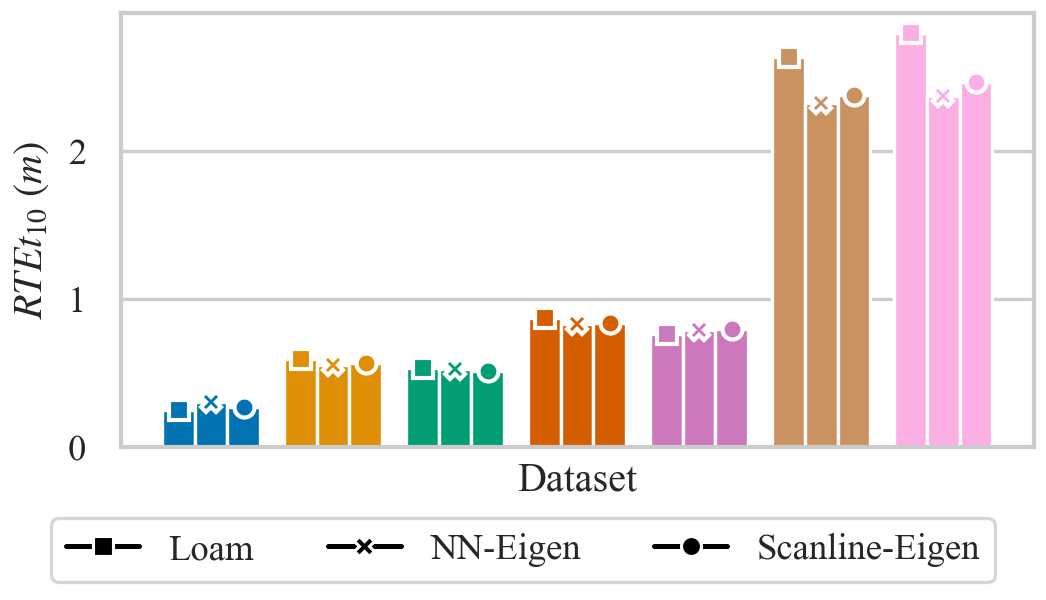
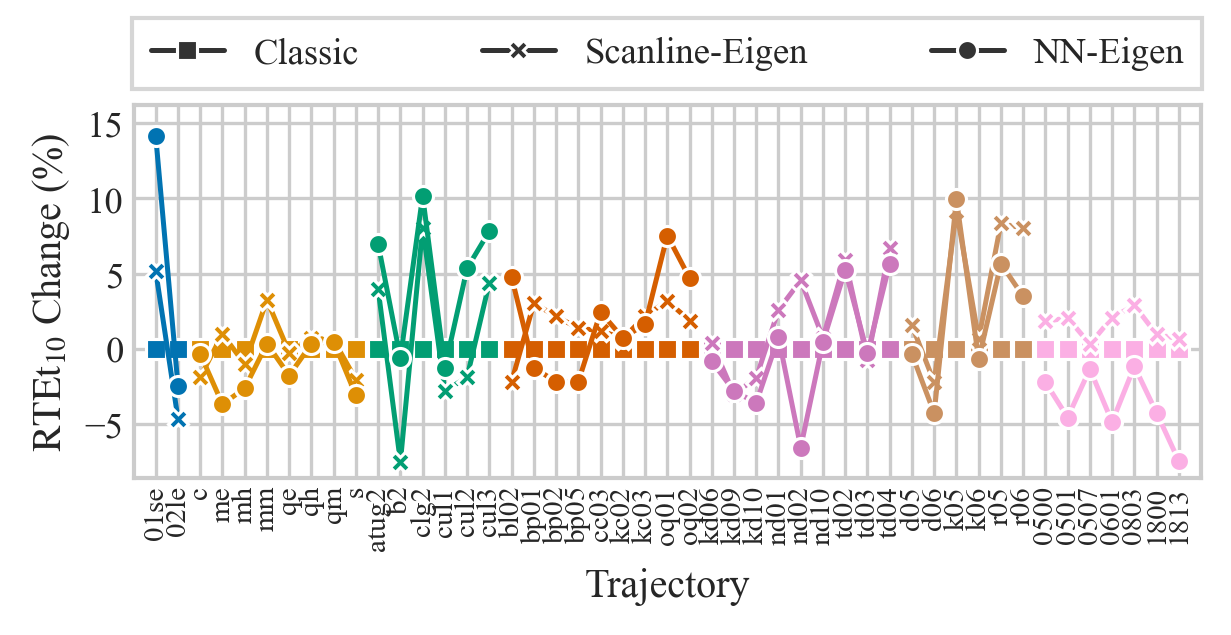
Finish window and curvature

diff --git a/experiments/curvature.py b/experiments/curvature.py
@@ -1,28 +1,30 @@
 from itertools import product
 from pathlib import Path
-from typing import cast
-from matplotlib.patches import Rectangle
-import numpy as np
 import seaborn as sns
 import matplotlib.pyplot as plt
 import polars as pl
 import sys
 
 sys.path.append("src")
-from env import SUBSET_TRAJ, LEN, COL_WIDTH
+from env import ALL_TRAJ, LEN, COL_WIDTH
 from params import Curvature, ExperimentParams, Feature, Initialization
 from wrappers import parser, plt_show, setup_plot
 from run import run_multithreaded
 from stats import compute_cache_stats
 
+"""
+Test for the effect of curvature computations methods
 
-dir = Path("results/25.02.20_curvature_remove_edge_eigen_scanline")
+Changelog
+- 25.02.20: Switched curvature value to 7.0 to make each method get similar number of features. Also switch to ground truth initialization
+
+"""
+
+dir = Path("results/25.02.20_curvature_7.0")
 
 
 def run(num_threads: int):
     # ------------------------- Everything to sweep over ------------------------- #
-    curvature_values = np.linspace(0.00, 2.5, 6)[1:]
-
     curvatures = [
         Curvature.Loam,
         Curvature.Eigen,
@@ -32,107 +34,96 @@ def run(num_threads: int):
     # ------------------------- Compute product of options ------------------------- #
     experiments = [
         ExperimentParams(
-            name=f"{c.name}_{c_val:.3f}",
+            name=c.name,
             dataset=d,
             features=[Feature.Planar],
             curvature=c,
-            curvature_planar_threshold=float(c_val),
-            init=Initialization.ConstantVelocity,
+            curvature_planar_threshold=7.0,
+            init=Initialization.GroundTruth,
         )
-        for c, c_val, d in product(curvatures, curvature_values, SUBSET_TRAJ)
+        for c, d in product(curvatures, ALL_TRAJ)
     ]
 
     run_multithreaded(experiments, dir, num_threads=num_threads, length=LEN)
 
 
-def make_plot_bar(ax, df: pl.DataFrame, name: str, to_plot: str):
-    palette = setup_plot()
-    df = df.filter(
-        pl.col("curvature_planar_threshold").eq(1.0)
-        # & pl.col("Dataset").eq("HeLiPR").not_()
-        # & pl.col("Dataset").eq("Botanic Garden").not_()
+def plot_classic(name: str, force: bool):
+    df = compute_cache_stats(dir, force=force)
+
+    metric = "w100_RTEt"
+    # metric = "planar"
+
+    # Get identity versions
+    df_identity = df.filter(pl.col("Curvature") == "Classic").select(
+        ["dataset", metric]
     )
 
-    sns.barplot(
-        df,
-        ax=ax,
-        x="Dataset",
-        y=to_plot,
-        hue="curvature",
+    # compute percent improvement
+    df = df.with_columns(percent=pl.zeros(df.shape[0]))
+    for dataset in df["dataset"].unique():
+        id_val = df_identity.filter(pl.col("dataset") == dataset)[0, metric]
+        df = df.with_columns(
+            percent=pl.when(pl.col("dataset") == dataset)
+            # THIS IS THE LINE THAT ACTUALLY COMPUTES THINGS
+            .then(100 * (pl.col(metric) - id_val) / id_val)
+            .otherwise(pl.col("percent"))
+        )
+
+    _c = setup_plot()
+    fig, ax = plt.subplots(
+        1,
+        1,
+        figsize=(COL_WIDTH + 0.5, 1.75),
+        layout="constrained",
+        sharey=False,
+        sharex=True,
     )
 
-    markers = ["s", "X", "o"]
-    names = ["Loam", "NN-Eigen", "Scanline-Eigen"]
-
-    tick_labels = ax.get_xticklabels()
-    num_datasets = len(tick_labels)
-    bars = [b for b in ax.get_children() if isinstance(b, Rectangle)]
-    for i, label in enumerate(tick_labels):
-        for j in range(3):
-            # Change bar colors to match the dataset
-            color = palette[label.get_text()]
-            rect = cast(Rectangle, bars[i + j * num_datasets])
-            rect.set_facecolor(color)
-            # Add shape to top of bar
-            x = rect.get_x() + rect.get_width() / 2
-            y = rect.get_height()
-            ax.plot(x, y, marker=markers[j], color=color, markeredgecolor="white")
-
-    # Remove dataset names
-    ax.set_xticklabels([])
-    ax.set_xlabel("Dataset", labelpad=-5)
-
-    # blank line for the legend
-    for m, n in zip(markers, names):
-        sns.lineplot([np.NaN], marker=m, color="black", label=n, ax=ax)
-
-    ax.legend().set_visible(False)
-
-
-def make_plot_line(df: pl.DataFrame, name: str, to_plot: str):
-    fig, ax = plt.subplots(1, 1, figsize=(5, 6), layout="constrained")
-
-    ax.set_title("Loam")
     sns.lineplot(
         df,
         ax=ax,
-        x="curvature_planar_threshold",
-        y=to_plot,
-        hue="dataset",
-        style="curvature",
+        x="Trajectory",
+        y="percent",
+        hue="Dataset",
+        style="Curvature",
         markers=["s", "X", "o"],
-        # style_order=["Identity", "ConstantVelocity", "GroundTruth"],
+        style_order=["Classic", "Scanline-Eigen", "NN-Eigen"],
         dashes=False,
+        legend=True,
     )
-    ax.legend().set_visible(False)
-    fig.legend(ncol=2, loc="outside lower center")
-    plt_show(f"{name}_{to_plot}")
 
-
-def plot(name: str, force: bool):
-    df = compute_cache_stats(dir, force)
-
-    _palette = setup_plot()
-    fig, ax = plt.subplots(1, 1, figsize=(COL_WIDTH, 2), layout="constrained")
-
-    make_plot_bar(ax, df, name, "w100_RTEt")
-
+    # Remove dataset from legend
     handles, labels = ax.get_legend_handles_labels()
     handles = handles[-3:]
     labels = labels[-3:]
 
-    ax.set_ylabel(r"$RTEt_{10}\ (m)$")
+    ax.legend().set_visible(False)
+    ax.tick_params(axis="x", pad=-3, rotation=90, labelsize=7)
+    ax.tick_params(axis="y", pad=-2.4)
 
-    fig.legend(
-        ncol=3,
-        loc="outside lower center",
-        labels=labels,
+    traj = df.select("Trajectory").unique().to_numpy()
+    xmax = len(traj) - 1
+    extra = 1.0
+    ax.set_xlim(0.0 - extra, xmax + extra)
+
+    curr_ylim = ax.get_ylim()
+    ax.set_ylim(curr_ylim[0], curr_ylim[1] + 1)
+
+    ax.set_ylabel(r"$\text{RTEt}_{10}$ Change (%)", labelpad=3)
+    # ax.set_yscale("log")
+    leg = fig.legend(
         handles=handles,
-    )
+        labels=labels,
+        ncol=3,
+        borderpad=0.2,
+        labelspacing=0.15,
+        loc="outside upper left",
+        columnspacing=3.35,
+        bbox_to_anchor=(0.09, 1.155),
+    ).get_frame()
+    leg.set_boxstyle("square")  # type: ignore
+    leg.set_linewidth(1.0)
     plt_show(name)
-
-    make_plot_line(df, name, "planar")
-    make_plot_line(df, name, "w100_RTEt")
 
 
 if __name__ == "__main__":
@@ -141,4 +132,4 @@ if __name__ == "__main__":
     if args.action == "run":
         run(args.num_threads)
     elif args.action == "plot":
-        plot(args.name, args.force)
+        plot_classic(args.name, args.force)

diff --git a/experiments/window.py b/experiments/window.py
@@ -7,15 +7,15 @@ import sys
 import polars as pl
 
 sys.path.append("src")
-from params import ExperimentParams, Feature
+from params import ExperimentParams, Feature, Initialization
 from stats import ExperimentResult
 from run import run_multithreaded
 from wrappers import plt_show, parser, setup_plot
 from dataclasses import asdict
-from env import LEN, RESULTS_DIR, SUBSET_TRAJ
+from env import COL_WIDTH, LEN, RESULTS_DIR, SUBSET_TRAJ
 
 # weird date, but this is the right one
-dir = RESULTS_DIR / "25.02.19_window_cv_fixed_edges"
+dir = RESULTS_DIR / "25.02.21_window"
 
 
 def run(num_threads: int):
@@ -24,6 +24,7 @@ def run(num_threads: int):
             name="window",
             dataset=d,
             features=[Feature.Planar, Feature.Edge],
+            init=Initialization.GroundTruth,
         )
         for d in SUBSET_TRAJ
     ]
@@ -120,24 +121,24 @@ def plot(name: str, force: bool):
     else:
         df = pl.read_csv(df_file)
 
-    fig, ax = plt.subplots(1, 1, figsize=(5, 3), layout="constrained")
+    fig, ax = plt.subplots(1, 1, figsize=(COL_WIDTH + 0.5, 1.75), layout="constrained")
     sns.lineplot(
         df,
         x="window",
         y="trans",
         ax=ax,
         hue="Dataset",
-        marker="o",
+        marker=".",
     )
 
     ax.legend().set_visible(False)
-    ax.set_ylabel(r"$RTE_j$ (m)", labelpad=1)
+    ax.set_ylabel(r"$\text{RTEt}_j\ \ (m)$", labelpad=0)
     ax.set_xlabel(r"Window (sec)", labelpad=1)
     ax.tick_params(axis="x", pad=-2)
     ax.tick_params(axis="y", pad=-2)
 
     ax.set_ylim(0, 10)
-    fig.legend(ncol=3, loc="outside lower center", labelspacing=0.15)
+    # fig.legend(ncol=3, loc="outside lower center", labelspacing=0.15)
 
     plt_show(name)
 

diff --git a/experiments/dewarp.py b/experiments/dewarp.py
@@ -30,7 +30,7 @@ def run(num_threads: int):
             dataset=d,
             features=[Feature.Planar, Feature.Edge],
             dewarp=de,
-            init=Initialization.ConstantVelocity,
+            init=Initialization.GroundTruth,
         )
         for (de, d) in product(dewarp, ALL_TRAJ)
     ]

diff --git a/experiments/init.py b/experiments/init.py
@@ -25,6 +25,7 @@ def run(num_threads: int):
             name=i.name,
             dataset=d,
             init=i,
+            # this doesn't actually matter at all
             features=[Feature.Planar],
         )
         for i, d in product(init, ALL_TRAJ)
